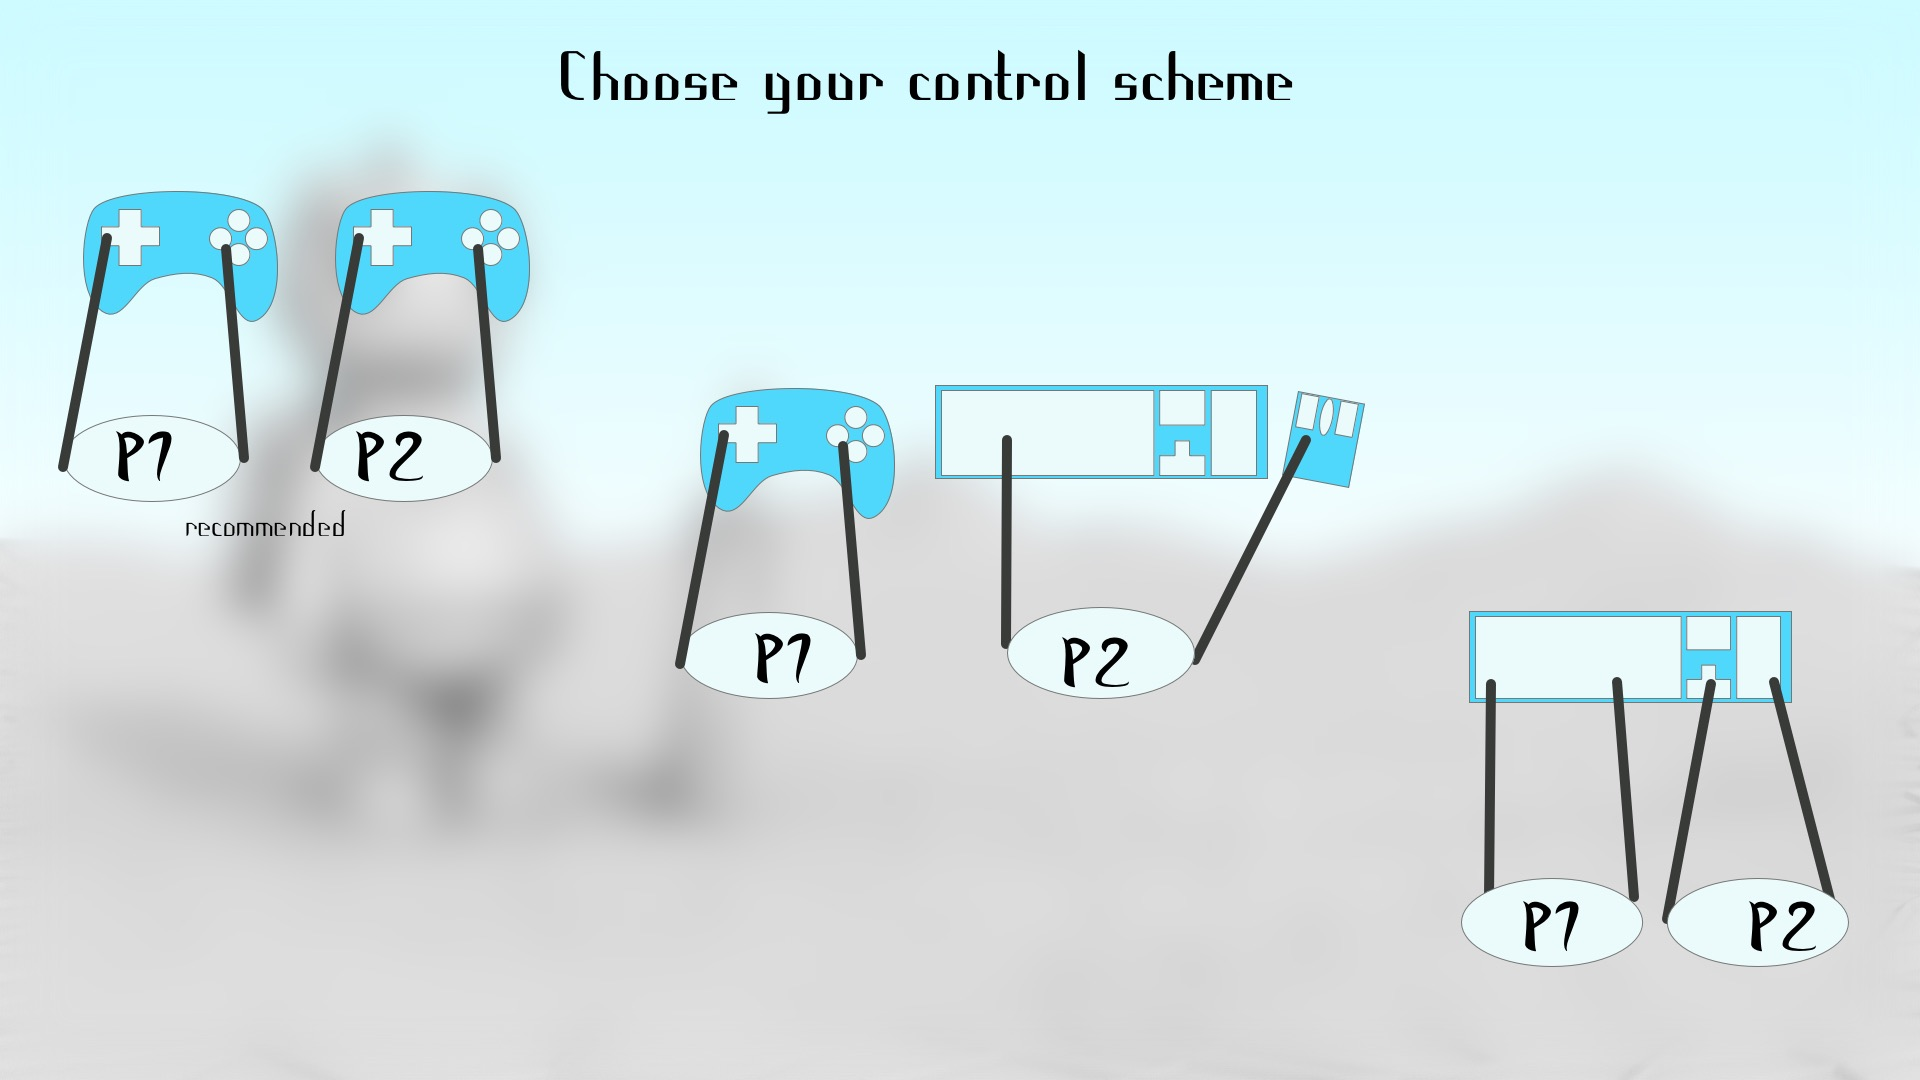
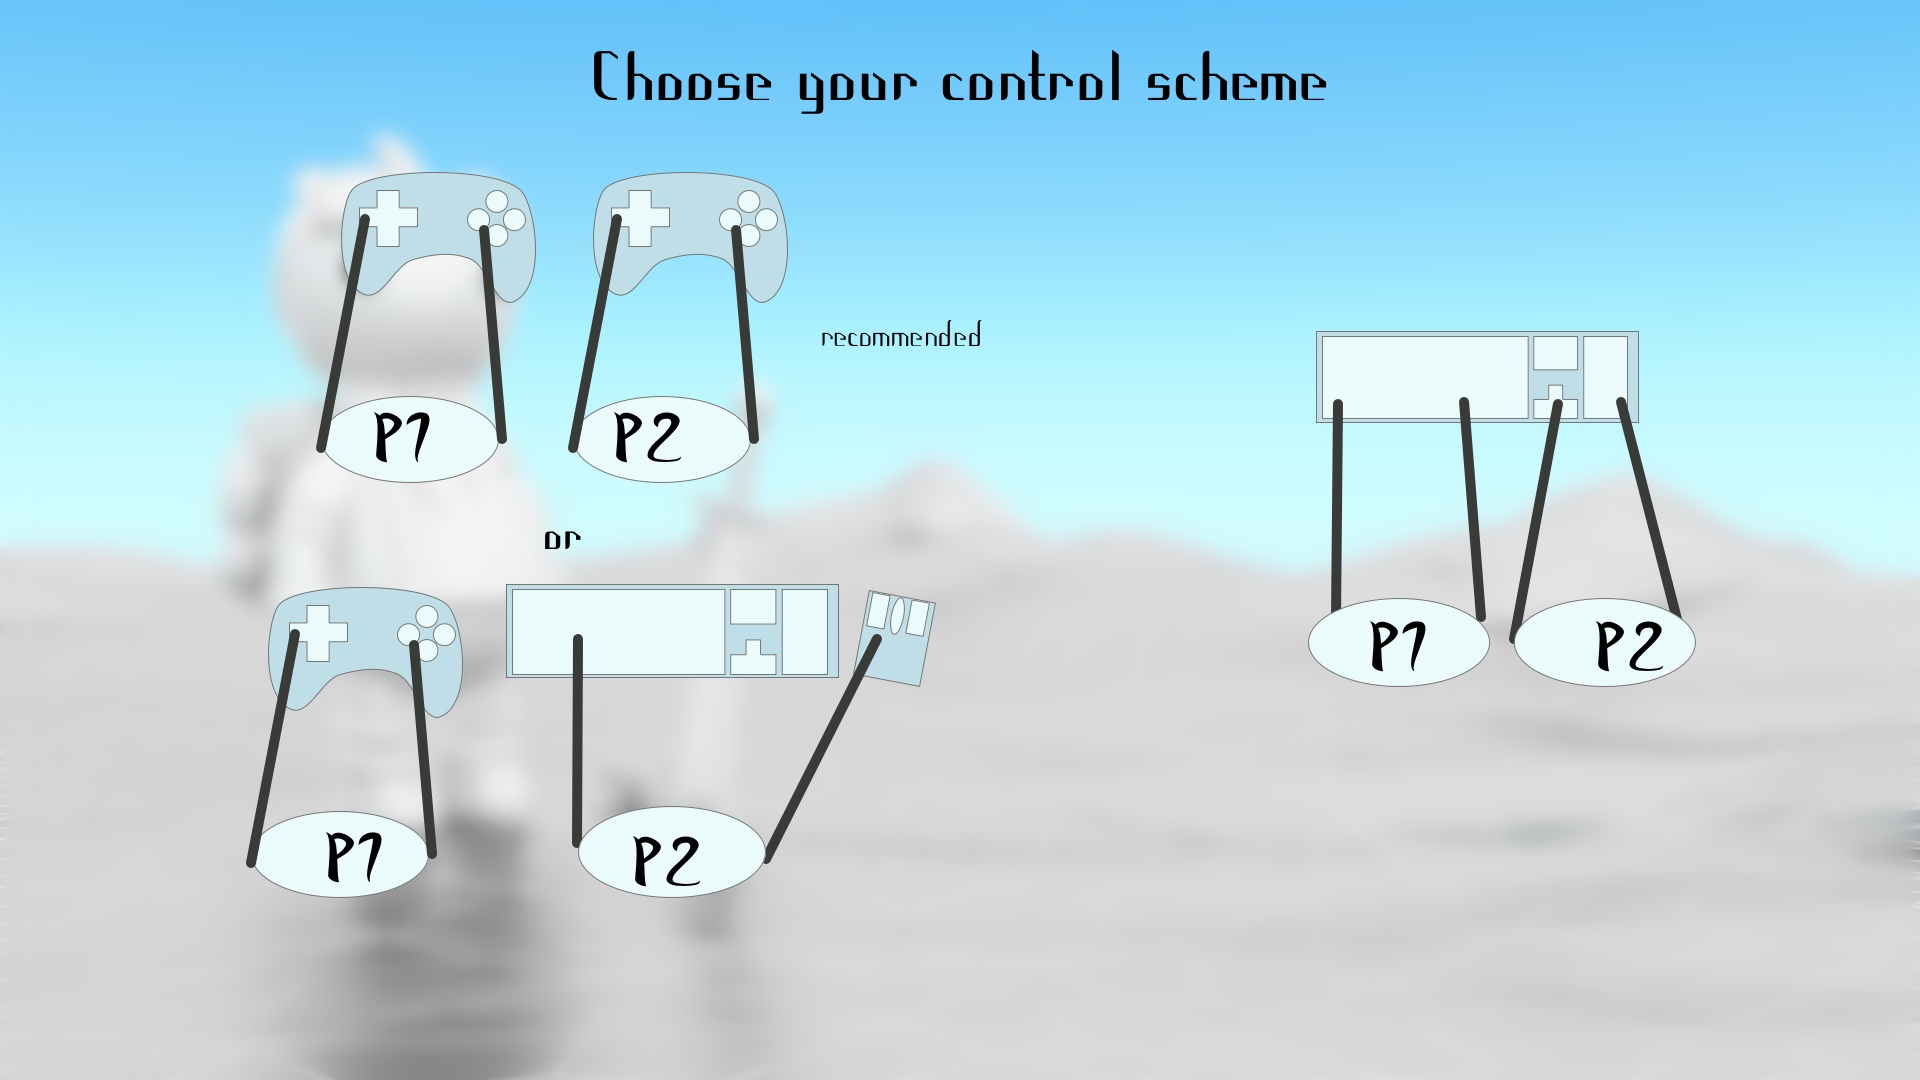
updated controlScreen layout

diff --git a/source/com/bombinggames/caveland/MainMenu/CoopControlsSelectionScreen.java b/source/com/bombinggames/caveland/MainMenu/CoopControlsSelectionScreen.java
@@ -1,7 +1,5 @@
 package com.bombinggames.caveland.MainMenu;
 
-import com.bombinggames.wurfelengine.core.WEScreen;
-import com.bombinggames.wurfelengine.WE;
 import com.badlogic.gdx.Gdx;
 import com.badlogic.gdx.controllers.Controllers;
 import com.badlogic.gdx.graphics.GL20;
@@ -13,6 +11,8 @@ import com.badlogic.gdx.scenes.scene2d.ui.Label;
 import com.badlogic.gdx.scenes.scene2d.ui.TextButton;
 import com.badlogic.gdx.scenes.scene2d.utils.ChangeListener;
 import com.badlogic.gdx.utils.viewport.FitViewport;
+import com.bombinggames.wurfelengine.WE;
+import com.bombinggames.wurfelengine.core.WEScreen;
 
 /**
  *
@@ -37,27 +37,15 @@ public class CoopControlsSelectionScreen extends WEScreen {
 		this.mainbg = background;
 		
 		//stage
-		if (Controllers.getControllers().size > 1) {//setDisabled(true) does not work
-			TextButton twoControllersButton = new TextButton("Choose", WE.getEngineView().getSkin());
-			twoControllersButton.setPosition(200, 600);
-			twoControllersButton.addListener(new ChangeListener() {
-
-				@Override
-				public void changed(ChangeListener.ChangeEvent event, Actor actor) {
-					WE.setScreen(new SaveSelectionScreen(2, batch, mainbg));
-				}
-			});
-			stage.addActor(twoControllersButton);
-		} else {
+		if (Controllers.getControllers().size <= 1) {
 			Label label = new Label("No second controller found.", WE.getEngineView().getSkin());
-			label.setPosition(200, 600);
+			label.setPosition(400, 600);
 			stage.addActor(label);
 		}
 		
-		
 		if (Controllers.getControllers().size > 0) {
 			TextButton splitControlsButton = new TextButton("Choose", WE.getEngineView().getSkin());
-			splitControlsButton.setPosition(800, 400);
+			splitControlsButton.setPosition(600, 150);
 			splitControlsButton.addListener(new ChangeListener() {
 
 				@Override
@@ -68,12 +56,12 @@ public class CoopControlsSelectionScreen extends WEScreen {
 			stage.addActor(splitControlsButton);
 		} else {
 			Label label = new Label("No controller found.", WE.getEngineView().getSkin());
-			label.setPosition(800, 400);
+			label.setPosition(600, 150);
 			stage.addActor(label);
 		}
 		
 		TextButton twoKeyboardButton = new TextButton("Choose", WE.getEngineView().getSkin());
-		twoKeyboardButton.setPosition(1200, 200);
+		twoKeyboardButton.setPosition(1300, 150);
 		twoKeyboardButton.addListener(new ChangeListener() {
 
 			@Override
@@ -84,7 +72,7 @@ public class CoopControlsSelectionScreen extends WEScreen {
 		stage.addActor(twoKeyboardButton);
 		
 		TextButton backButton = new TextButton("Back", WE.getEngineView().getSkin());
-		backButton.setPosition(100, 150);
+		backButton.setPosition(100, 50);
 		backButton.addListener(new ChangeListener() {
 
 			@Override
